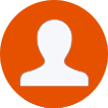
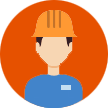
APP地图，点击员工出现信息，员工头像修改

diff --git a/map_demo/webpack.config.js b/map_demo/webpack.config.js
@@ -5,6 +5,9 @@ const CopyWebpackPlugin = require('copy-webpack-plugin');
 const ExtractTextPlugin = require("extract-text-webpack-plugin");
 const OptimizeCSSPlugin = require('optimize-css-assets-webpack-plugin');
 const CleanWebpackPlugin = require("clean-webpack-plugin");
+const ZipPlugin = require('zip-webpack-plugin')
+
+
 const config = {
   // devtool: '#eval-source-map',
   // devtool: process.env.NODE_ENV === 'development' ? '#eval-source-map' : "#cheap-module-source-map",
@@ -99,7 +102,10 @@ const config = {
       // hash : true,
       minify: { removeAttributeQuotes: true, removeComments: true },
     }),
-
+    new ZipPlugin({
+      path:path.join(__dirname,'./dist'),
+      filename: 'map_demo.zip'
+    })
   ],
   optimization: {
     runtimeChunk: {

diff --git a/map_demo/app/js/index.js b/map_demo/app/js/index.js
@@ -104,7 +104,14 @@ function bindEvent(argument) {
 
 /*请求员工信息*/
 function handleStaffClick(e) {
-  let userid = e.target.getAttribute("data-id");
+  let userid;
+  if(e.target.nodeName.toUpperCase() == "SPAN") {
+    let parent = e.target.parentNode;
+    userid = parent.getAttribute("data-id");
+  }
+  else {
+    userid = e.target.getAttribute("data-id");
+  }
   fetch(HOST + STAFF_DETAIL_PATH + `?id=${userid}`, {
     method: "POST",
     credentials: 'include',

diff --git a/map_demo/app/css/style.css b/map_demo/app/css/style.css
@@ -185,6 +185,6 @@ input[type="radio"], input[type="checkbox"] {
 
 #user-info > p {
   font-weight: bold;
-  font-size: 0.186667rem;
+  font-size: 0.4rem;
   line-height: 0.666667rem;
 }
